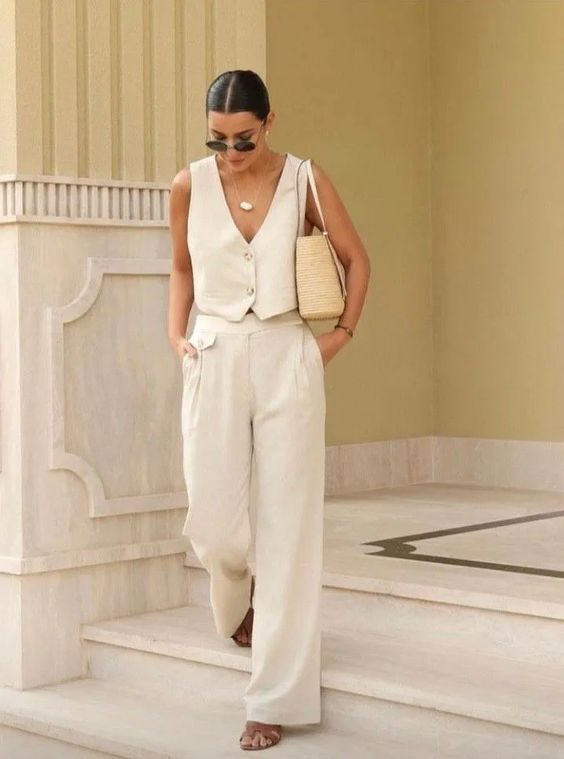
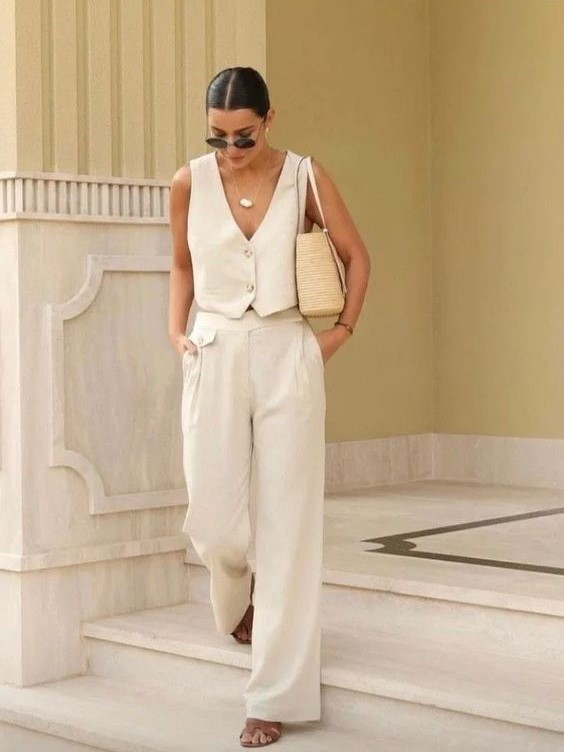
Modifiqué tamaño de fotos y responsive

diff --git a/css/main.css b/css/main.css
@@ -142,7 +142,7 @@
   }
   .galeria .galeria-container {
     display: flex;
-    max-width: 1000px;
+    max-width: 100%;
     margin-inline: auto;
     gap: 1rem;
   }
@@ -159,8 +159,7 @@
   }
   .galeria .galeria-container .galeria-foto:hover {
     transform: scale(1.3, 1.3) translateY(-30px);
-  }
-  
+  } 
   section {
     text-align: center;
     font-size: 18px;
@@ -451,6 +450,13 @@
     }
     .galeria .galeria-title {
       font-size: 16px;
+    }
+    .galeria-container {
+        flex-wrap: wrap;
+    }
+    .galeria-foto{
+        height: 300px;
+        width: 100%;
     }
     /* MODA */
     .moda .moda-titulo {
